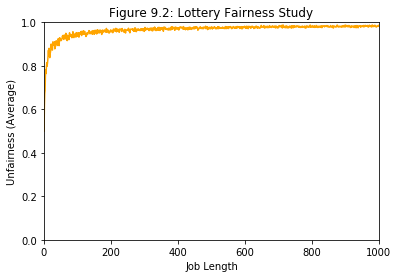
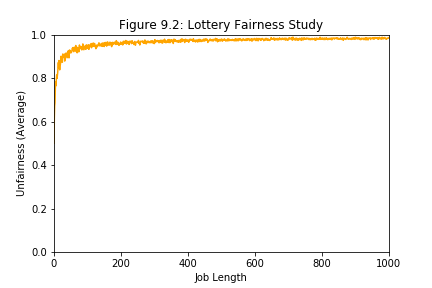
savefig

Changed region(s): [[0.0, 0.0288, 0.995, 0.9784]]

diff --git a/9/plot.py b/9/plot.py
@@ -63,4 +63,5 @@ plt.margins(0)
 plt.xlabel('Job Length')
 plt.ylabel('Unfairness (Average)')
 plt.title('Figure 9.2: Lottery Fairness Study')
+plt.savefig('9.2.png')
 plt.show()

diff --git a/9/plot_quantum.py b/9/plot_quantum.py
@@ -62,4 +62,5 @@ plt.margins(0)
 plt.xlabel('Quantum Size')
 plt.ylabel('Unfairness (Average)')
 plt.title('Lottery Fairness Study')
+plt.savefig('quantum.png')
 plt.show()

diff --git a/9/plot_stride.py b/9/plot_stride.py
@@ -60,4 +60,5 @@ plt.margins(0)
 plt.xlabel('Job Length')
 plt.ylabel('Unfairness (Average)')
 plt.title('Stride Scheduling')
+plt.savefig('stride.png')
 plt.show()
